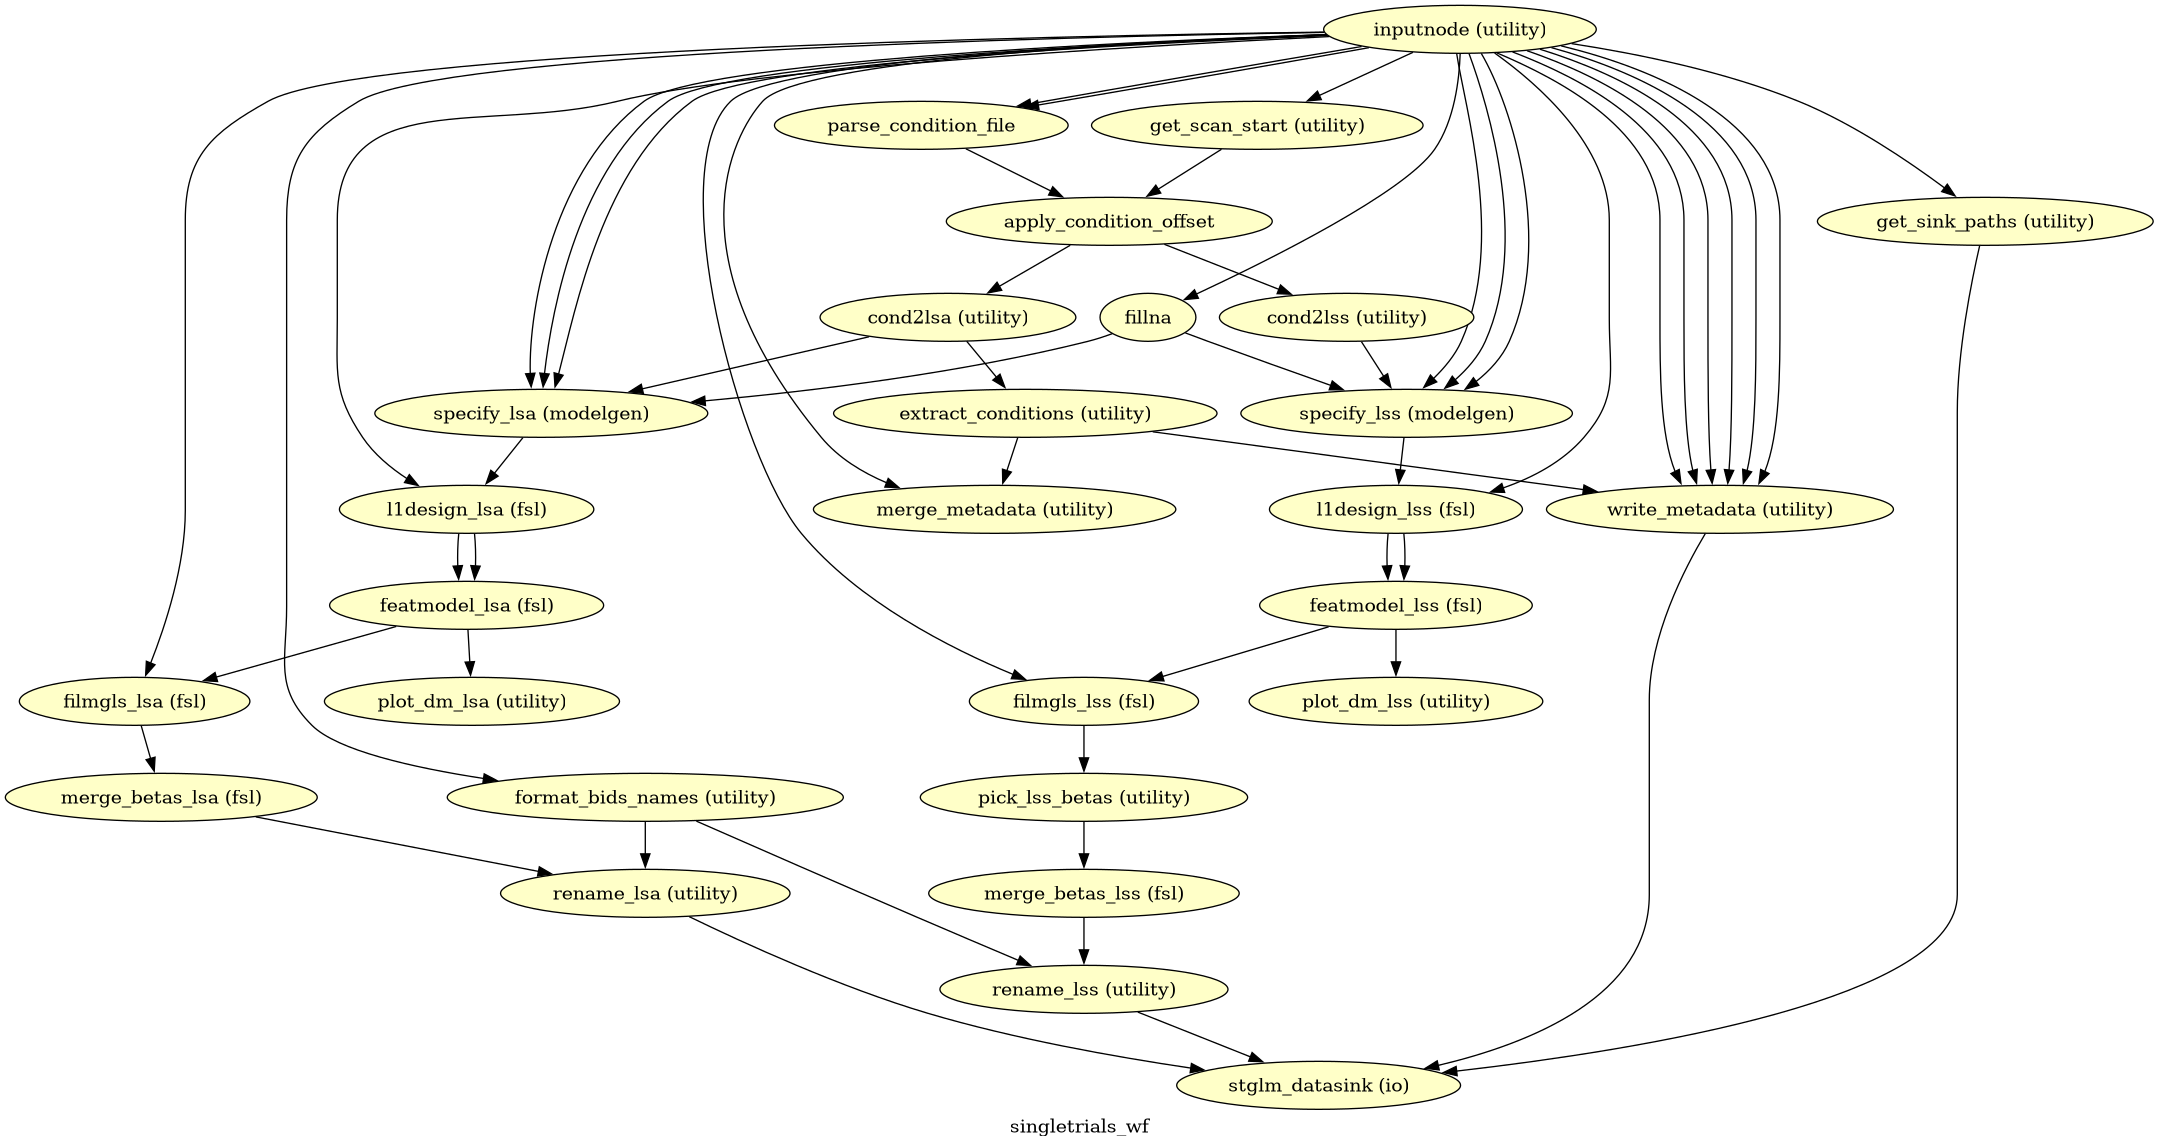
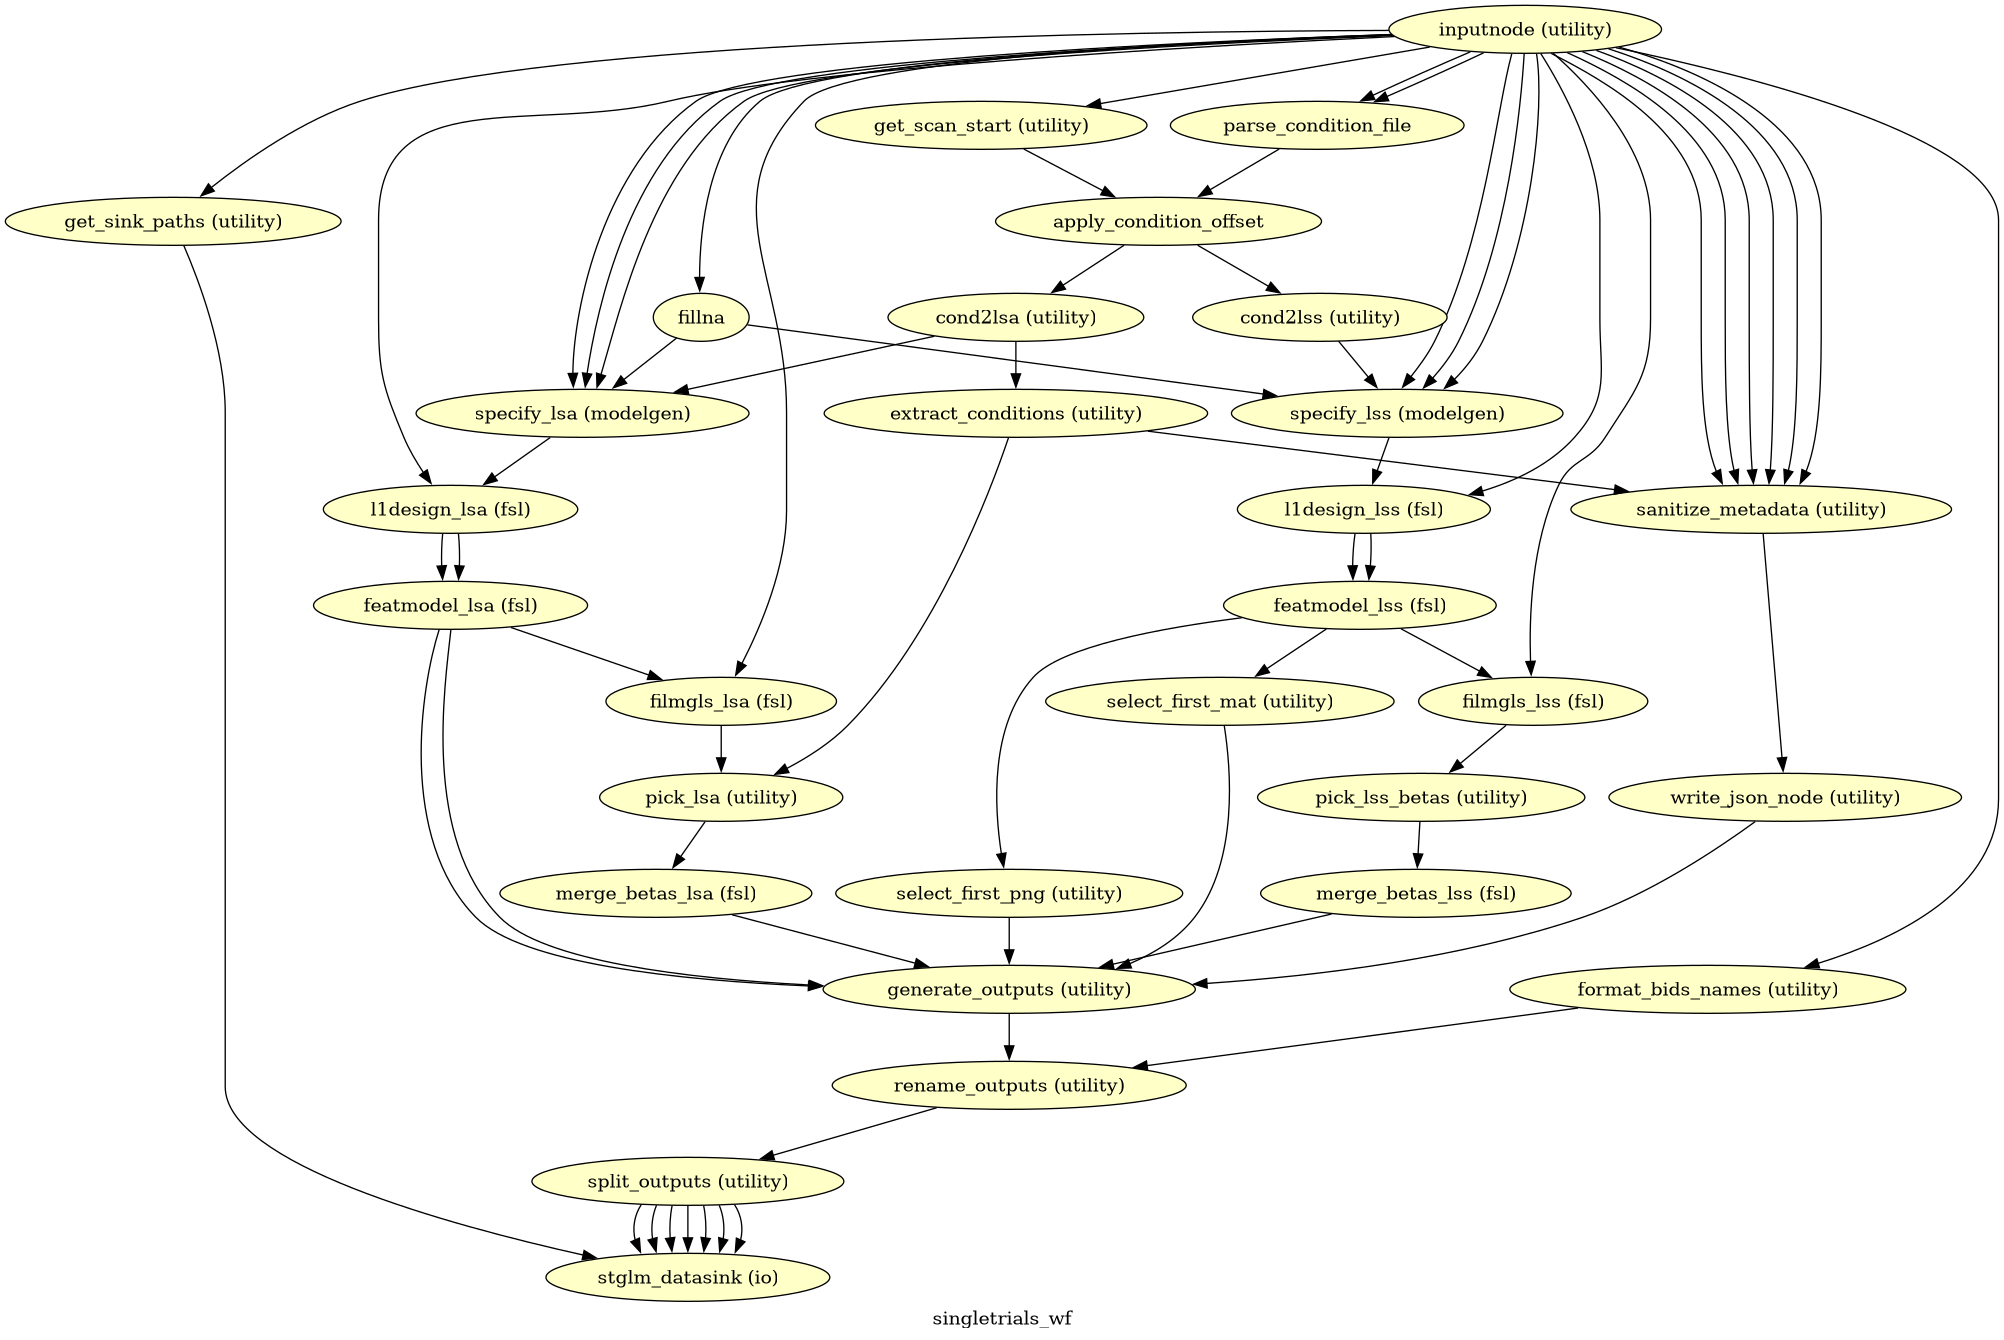
MapNode outputs and save png/mat of design

diff --git a/stglm/single_trials.py b/stglm/single_trials.py
@@ -16,7 +16,7 @@ from .conditions import (
     ApplyConditionOffset,
     ParseConditionFile,
 )
-from nipype.interfaces.io import DataSink, JSONFileSink
+from nipype.interfaces.io import DataSink
 
 def cond_bunch_to_lsa(subject_info):
     from nipype.interfaces.base import Bunch
@@ -98,25 +98,6 @@ def cond_bunch_to_lss(subject_info, mode='cond'):
         )
     return out
 
-
-def plot_fsl_design(design_file, png_name=None):
-    import numpy as np, matplotlib.pyplot as plt, os, pathlib
-    rows, start = [], False
-    for line in open(design_file):
-        if line.strip() == '/Matrix': start = True; continue
-        if start:
-            rows.append([float(x) for x in line.split()])
-    X = np.array(rows)
-    if png_name is None:
-        stem = pathlib.Path(design_file).with_suffix('').name
-        png_name = f'{stem}.png'
-    out_png = os.path.abspath(png_name)
-    fig, ax = plt.subplots(figsize=(8, 8))
-    ax.imshow(X, aspect='auto', interpolation='nearest')
-    ax.set_xlabel('Regressors'); ax.set_ylabel('Time points')
-    ax.set_title('FSL Design Matrix'); fig.tight_layout()
-    fig.savefig(out_png, dpi=150); plt.close(fig)
-    return out_png
 
 def pick_roi_betas(param_lists, idx=0):
     # param_lists: list of lists
@@ -296,16 +277,6 @@ def init_singletrials_wf(
         ),
         name='merge_betas_lsa'
     )
-
-    plot_lsa = pe.Node(
-        niu.Function(
-            input_names=['design_file','png_name'],
-            output_names=['out_png'],
-            function=plot_fsl_design
-        ),
-        name='plot_dm_lsa'
-    )
-    plot_lsa.inputs.png_name = 'design_matrix_lsa.png'
     
     #------------------------------------------------------------------
     # LSS
@@ -373,16 +344,6 @@ def init_singletrials_wf(
         name='merge_betas_lss'
     )
 
-    plot_lss = pe.MapNode(
-        niu.Function(
-            input_names=['design_file','png_name'],
-            output_names=['out_png'],
-            function=plot_fsl_design
-        ),
-        iterfield=['design_file'],
-        name='plot_dm_lss'
-    )
-
     # maybe just once in merge_resultdicts?
     if feature is not None:
         cond2lss.inputs.mode = feature.mode
@@ -402,24 +363,31 @@ def init_singletrials_wf(
                 parts.append(f"{kk}-{tags[key]}")
 
         base = "_".join(parts)
-        return (
+        return [
             f"{base}_desc-lsa_betas.nii.gz",
             f"{base}_desc-lss_betas.nii.gz",
-            f"{base}.json"
-        )
+            f"{base}.json",
+            f"{base}_desc-lss_betas.png",
+            f"{base}_desc-lss_betas.mat",
+            f"{base}_desc-lsa_betas.png",
+            f"{base}_desc-lsa_betas.mat",            
+        ]
 
     # format output names
     format_bids_names = pe.Node(
         niu.Function(
             input_names=["tags"],
-            output_names=["out_lsa", "out_lss", "out_json"],
+            output_names=["out_names"],
             function=format_bids_filenames  # use the full function, not lambda
         ),
         name="format_bids_names"
     )
-    
-    rename_lsa = pe.Node(niu.Rename(), name="rename_lsa")
-    rename_lss = pe.Node(niu.Rename(), name="rename_lss")
+
+    rename_outputs  = pe.MapNode(
+        niu.Rename(),
+        name="rename_outputs",
+        iterfield=["in_file", "format_string"]
+    )
 
     # datasink
     if derivatives is None:
@@ -447,7 +415,7 @@ def init_singletrials_wf(
         name="sanitize_metadata"
     )
 
-    def write_metadata_json(in_dict, out_name):
+    def write_metadata_json(in_dict, out_name="metadata.json"):
         import json
         from pathlib import Path
 
@@ -472,11 +440,50 @@ def init_singletrials_wf(
         name="write_json_node"
     )
 
+    def collect_generated_outputs(lsa_file, lss_file, lsa_mat, lsa_png, lss_mat, lss_png, json_file):
+        return [lsa_file, lss_file, json_file, lss_png, lss_mat, lsa_png, lsa_mat]
+
+    generate_outputs = pe.Node(
+        niu.Function(
+            input_names=[
+                "lsa_file",
+                "lss_file",
+                "lsa_mat",
+                "lsa_png",
+                "lss_mat",
+                "lss_png",
+                "json_file"
+            ],
+            output_names=["file_list"],
+            function=collect_generated_outputs
+        ),
+        name="generate_outputs"
+    )
+
+    def split_renamed_outputs(file_list):
+        return tuple(file_list)
+
+    split_outputs = pe.Node(
+        niu.Function(
+            input_names=["file_list"],
+            output_names=[
+                "out_lsa",
+                "out_lss",
+                "out_json",
+                "out_lss_png",
+                "out_lss_mat",
+                "out_lsa_png",
+                "out_lsa_mat"
+            ],
+            function=split_renamed_outputs
+        ),
+        name="split_outputs"
+    )
+
     datasink = pe.Node(
         DataSink(
             parameterization=False,
             base_directory=str(derivatives),
-            remove_dest_dir=True
         ),
         name="stglm_datasink"
     )
@@ -503,6 +510,24 @@ def init_singletrials_wf(
         ),
         name="get_sink_paths"
     )
+
+    select_first_png = pe.Node(
+        niu.Function(
+            input_names=["file_list"],
+            output_names=["first_file"],
+            function=lambda file_list: file_list[0] if file_list else None
+        ),
+        name="select_first_png"
+    )
+
+    select_first_mat = pe.Node(
+        niu.Function(
+            input_names=["file_list"],
+            output_names=["first_file"],
+            function=lambda file_list: file_list[0] if file_list else None
+        ),
+        name="select_first_mat"
+    )    
 
     # Connect the core graph
     workflow.connect([
@@ -549,7 +574,6 @@ def init_singletrials_wf(
         (film_lsa,  pick_lsa, [("param_estimates", "in_files")]),
         (extract_conditions_node, pick_lsa, [("trial_list", "trial_list")]),
         (pick_lsa,  merge_lsa,[('out_files','in_files')]),
-        (feat_lsa,  plot_lsa, [('design_file','design_file')]),
 
         # LSS
         (inputnode, spec_lss, [
@@ -570,25 +594,43 @@ def init_singletrials_wf(
         (inputnode, film_lss, [('bold','in_file')]),
         (film_lss,  pick_lss, [('param_estimates','param_lists')]),
         (pick_lss,  merge_lss,[('roi_betas','in_files')]),
-        (feat_lss,  plot_lss, [('design_file','design_file')]),
-
-        # populate beta files
-        (merge_lsa, rename_lsa, [("merged_file", "in_file")]),
-        (merge_lss, rename_lss, [("merged_file", "in_file")]),
-        (format_bids_names, rename_lsa, [("out_lsa", "format_string")]),
-        (format_bids_names, rename_lss, [("out_lss", "format_string")]),
-        (format_bids_names, write_json_node, [("out_json", "out_name")]),
+        (feat_lss, select_first_png, [("design_image", "file_list")]),
+        (feat_lss, select_first_mat, [("design_file", "file_list")]),
 
         # metadata
         (extract_conditions_node, sanitize_metadata, [("trial_list", "trial_list")]),
         (sanitize_metadata, write_json_node, [("metadata", "in_dict")]),
 
-        # datasink      
+        # generate outputs
+        (merge_lsa, generate_outputs, [("merged_file", "lsa_file")]),
+        (merge_lss, generate_outputs, [("merged_file", "lss_file")]),
+        (write_json_node, generate_outputs, [("out_file", "json_file")]),
+        (feat_lsa, generate_outputs, [("design_file", "lsa_mat")]),
+        (feat_lsa, generate_outputs, [("design_image", "lsa_png")]),
+        (select_first_mat, generate_outputs, [("first_file", "lss_mat")]),
+        (select_first_png, generate_outputs, [("first_file", "lss_png")]),
+
+        # feed into renaming for later DataSink
+        (generate_outputs, rename_outputs, [("file_list", "in_file")]),
+        (format_bids_names, rename_outputs, [("out_names", "format_string")]),
+
+        # split for proper parsing to DataSink
+        (rename_outputs, split_outputs, [("out_file", "file_list")]),
         (get_sink_paths, datasink, [("container", "container")]),
-        (rename_lsa, datasink, [("out_file", "func.@lsa")]),
-        (rename_lss, datasink, [("out_file", "func.@lss")]),
-        (write_json_node, datasink, [("out_file", "func.@json")])
 
     ])
+
+    sink_map = [
+        ("out_lsa", "func.@lsa"),
+        ("out_lss", "func.@lss"),
+        ("out_json", "func.@json"),
+        ("out_lss_png", "func.@lss_png"),
+        ("out_lss_mat", "func.@lss_mat"),
+        ("out_lsa_png", "func.@lsa_png"),
+        ("out_lsa_mat", "func.@lsa_mat"),
+    ]
+
+    for out_field, sink_path in sink_map:
+        workflow.connect(split_outputs, out_field, datasink, sink_path)
 
     return workflow
